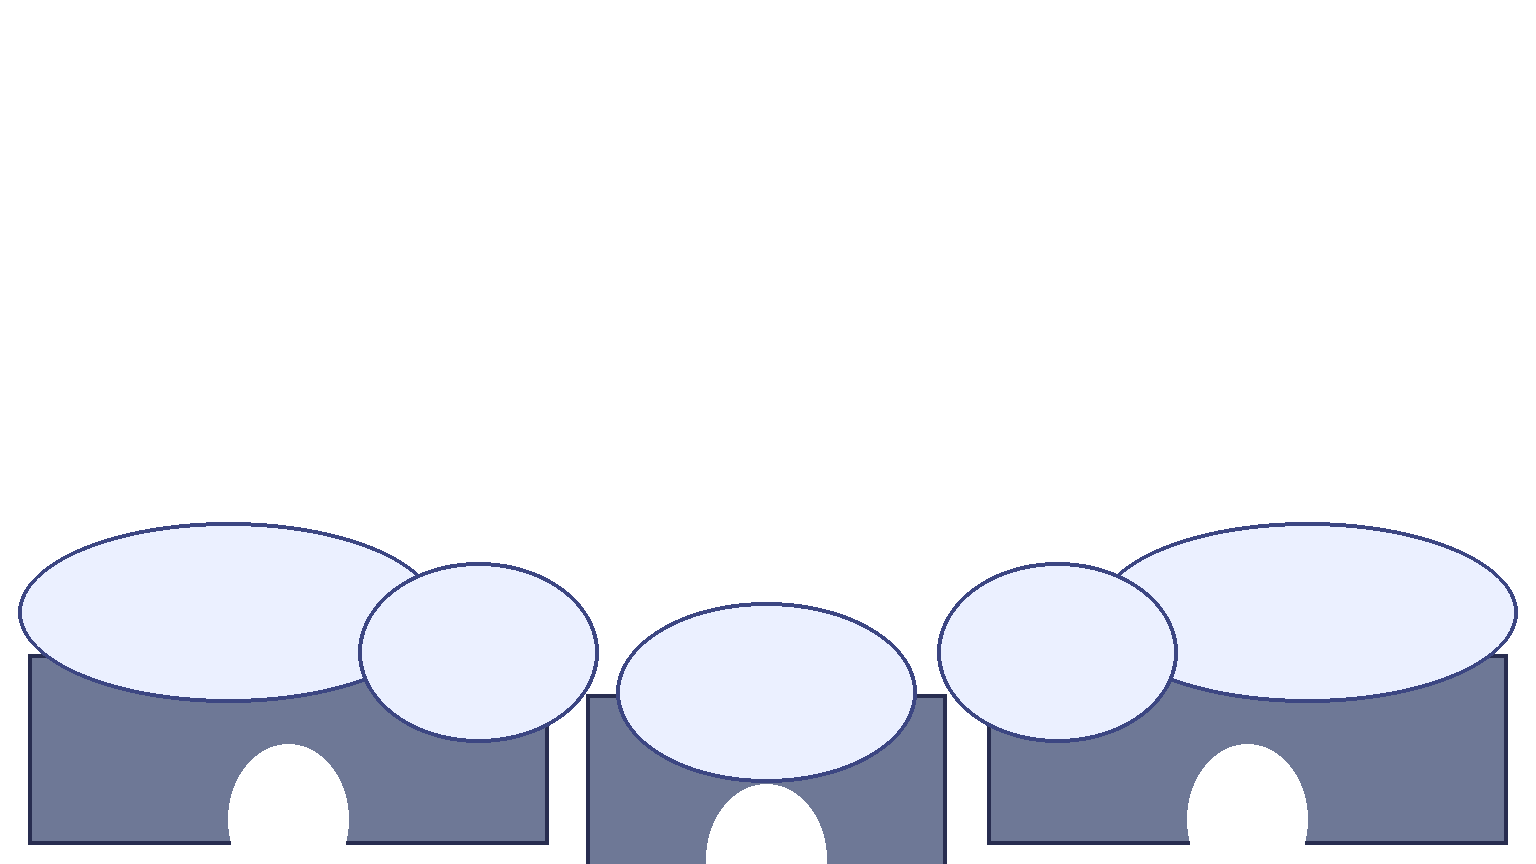
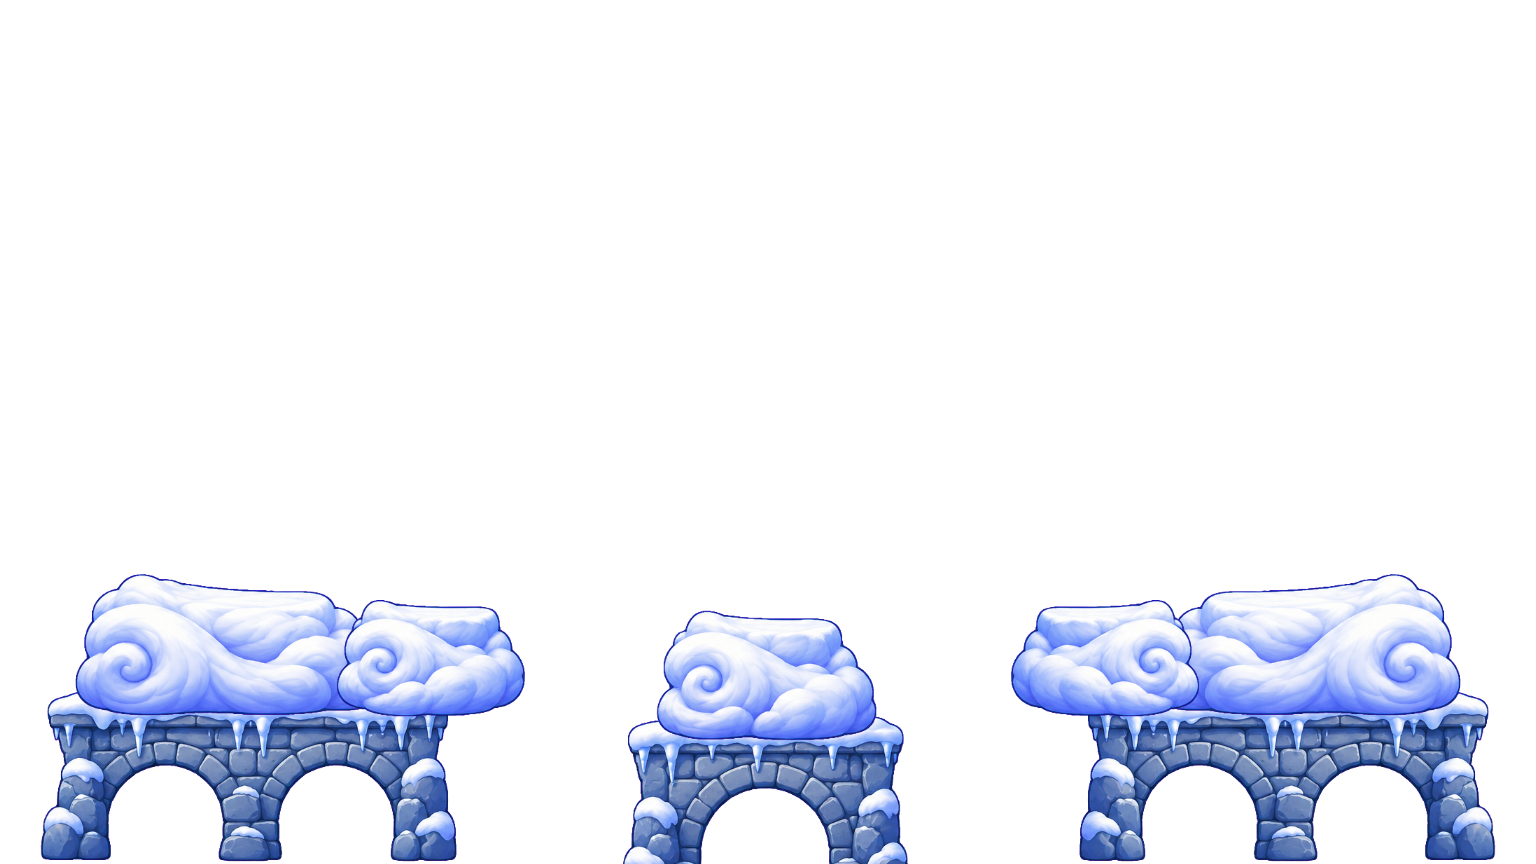
Mapa Sonho Nevado com arte do Codex e colisão tirada da pintura
Claude-Session: https://claude.ai/code/session_01Qghigksom72nNn7R5uKPfk

diff --git a/shared/maps.ts b/shared/maps.ts
@@ -67,7 +67,7 @@ export const MAP_DEFINITIONS:Record<CanonicalMapId,MapDefinition>={
    structure('celestial-left-crystal',[[166,551],[156,527],[170,489],[186,527],[180,551]],'magic'),structure('celestial-right-crystal',[[1370,551],[1380,527],[1366,489],[1350,527],[1356,551]],'magic')],
   objects:[{id:'statue-a',kind:'statue',x:104,y:552,scale:.85,layer:5},{id:'statue-b',kind:'statue',x:1432,y:552,scale:.85,layer:5},{id:'crystal-a',kind:'crystal',x:171,y:551,scale:.65,layer:5,region:'celestial-left-crystal',animated:true},{id:'crystal-b',kind:'crystal',x:1365,y:551,scale:.65,layer:5,region:'celestial-right-crystal',animated:true},{id:'flag-a',kind:'flag',x:570,y:540,scale:1,layer:5,animated:true},{id:'flag-b',kind:'flag',x:966,y:540,scale:1,layer:5,animated:true},{id:'crystal-front-a',kind:'crystal',x:35,y:890,scale:2,layer:6,animated:true},{id:'crystal-front-b',kind:'crystal',x:1503,y:890,scale:1.8,layer:6,animated:true}]
  },
- snow:{...common,id:'snow',name:'Sonho Nevado',subtitle:'Neve e pontes de pedra · Híbrido',color:'#8fb8ff',theme:'snow',lighting:{sky:'#5d6fb8',horizon:'#b9c4ee',ambient:'#dfe8ff'},audio:{ambience:'wind',impact:{ice:'chime',stone:'dust'}},
+ snow:{...common,id:'snow',name:'Sonho Nevado',subtitle:'Neve e pontes de pedra · Híbrido',color:'#8fb8ff',theme:'snow',lighting:{sky:'#5d6fb8',horizon:'#b9c4ee',ambient:'#dfe8ff'},audio:{ambience:'wind',impact:{earth:'dust'}},
   art:{background:'/assets/maps/snow/background.webp',midground:'/assets/maps/snow/background.webp',props:'/assets/maps/garden-props.png',terrain:'/assets/maps/snow/terrain-world.png'},
   regions:SNOW_REGIONS,objects:[]
  }

diff --git a/src/game/environment.ts b/src/game/environment.ts
@@ -79,6 +79,8 @@ const registeredTerrain=new WeakMap<HTMLImageElement,HTMLCanvasElement>();
 function registerTerrainArt(image:HTMLImageElement,map:MapId){
  const cached=registeredTerrain.get(image);if(cached)return cached;
  const raw=makeCanvas(W,H),rc=raw.getContext('2d',{willReadFrequently:true})!;rc.drawImage(image,0,0,W,H);
+ // Collision traced from this very painting (`npm run build:map`) already matches it pixel for pixel.
+ if(getMap(map).regions.every(region=>region.shape.kind==='cells')){registeredTerrain.set(image,raw);return raw;}
  const rgba=rc.getImageData(0,0,W,H).data,template=terrainTemplate(map),objects=new Set(getMap(map).objects.map(o=>o.region).filter(Boolean));
  let sourceLeft=W,sourceRight=0,targetLeft=W,targetRight=0;
  const top=new Float64Array(W).fill(H),bottom=new Float64Array(W);

diff --git a/CLAUDE.md b/CLAUDE.md
@@ -72,6 +72,7 @@ Regra geral: ele quer arte **pintada, nível DDTank**, com volume e cores vivas.
 - **Rabo de cavalo sob chapéu**: com chapéu o penteado perde o rabo; falta arte do rabo visível abaixo do chapéu (gerar pelo fluxo de cosméticos).
 - Lápide no lugar do jogador morto (sem barra de vida; pode assistir até o fim e receber recompensa, ou sair e perder a recompensa): em andamento numa thread em 17/10/2026.
 - Lobby (17/10, tarde, aprovado): sem medalhas no topo; menu no canto inferior direito como no DDTank, ícones pintados (`public/assets/ui/*-button.png`, 52 px) numa tábua de madeira flutuante (achou a prateleira de canto e os ícones de 74 px grandes demais), sem nomes visíveis e sem teclas; sem "Como jogar" por enquanto. Chat transparente sobre a praça (texto com contorno, faixa de madeira escura para digitar). Cursor pintado `public/assets/ui/cursor.png` (32 px).
+- Mapas novos (17/10): fundo = uma imagem grande fixa que não colide; terreno = peças pintadas pelo Codex sobre magenta, montadas por `npm run build:map` com a colisão tirada da pintura (`docs/maps-kit.md`). Primeiro: `snow`/Sonho Nevado. Plano e referências do DDTank em `/mnt/project-files/mapas/`. O usuário não quer distinção de material no terreno, só quebra/não quebra; no futuro haverá obstáculos e barreiras no céu.
 - Perguntas abertas: permitir itens de tiro junto com o voo; arte pintada pendente da loja (fundo do provador, ícones de categoria, placa) e do piso do lobby (`floor.webp`).
 - PR #1 (Quebra-Tijolos antigo) está obsoleto: a versão do Codex já está na `main`.
 - **Armas** (17/10/2026): arsenal apagado para refazer do zero com fases +0/+10/+12/+15 (nível máx. 15). Só existe o Quebra-Tijolos, arma inicial de início/meio de jogo (85/95/85/85, cratera pequena, POW de projétil único), sem arte até o usuário gerar as peças pelos prompts de `npm run verify:weapons` (gerar na ordem numerada, com as anteriores como referência). Próximas armas: uma por vez, sempre pelo kit.

diff --git a/docs/maps-kit.md b/docs/maps-kit.md
@@ -1,0 +1,20 @@
+# Mapas montados com peças pintadas
+
+Primeiro mapa feito assim: `snow` / Sonho Nevado (17/10/2026). Plano completo em `/mnt/project-files/mapas/plano-cenarios.md`.
+
+## Como funciona
+
+- **Fundo**: uma imagem grande e fixa (`art.background`), que não colide. Substitui o céu, a paisagem e o meio procedurais e quase não se move com a câmera.
+- **Terreno**: folha de peças pintadas pelo Codex sobre magenta `#FF00FF`. `npm run build:map -- --map=<id>` recorta as peças, numera (linha de cima, depois de baixo, da esquerda para a direita), coloca cada uma segundo `scripts/map-layouts/<id>.json` (`mirror` cria o lado do outro time espelhado) e grava:
+  - `public/assets/maps/<id>/terrain-world.png` e `background.webp`, mais `public/assets/maps/<id>-preview.png`;
+  - `shared/generated/<id>Terrain.ts`: a colisão tirada do alfa de cada peça (forma `cells`, células de 3 px). O que está pintado é chão.
+  - relatório em `test-results/maps-kit/<id>/`: `sheet.png` (peças numeradas; borda vermelha = peça cortada), `montage.png`, `collision.png` (verde quebra, cinza não quebra, amarelo = spawns, vermelho = linha da morte).
+- Cada item do layout diz se a peça quebra (`destructible`). Não há distinção de material para o jogador.
+- Cair abaixo da base do mapa continua matando (servidor, `WORLD.height`).
+
+## Gerar um mapa novo
+
+1. Escrever os prompts do fundo e da folha de peças (modelo: `/mnt/project-files/mapas/neve/prompts/`). Sem texto na imagem; fundo claro e de baixo contraste; peças mais escuras e com contorno.
+2. Gerar pelo Codex no PC (`codex exec` com a referência anexada) em `test-results/codex-maps/<id>/`.
+3. Escrever `scripts/map-layouts/<id>.json`, rodar `npm run build:map -- --map=<id>` e olhar o relatório.
+4. Adicionar o mapa em `shared/maps.ts` (`MAP_IDS` e `MAP_DEFINITIONS`) usando as regiões geradas. `tests/maps.test.ts` confere spawns espelhados, apoiados e com espaço.
